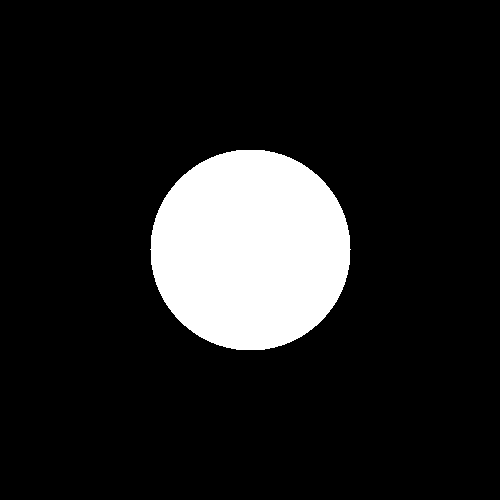
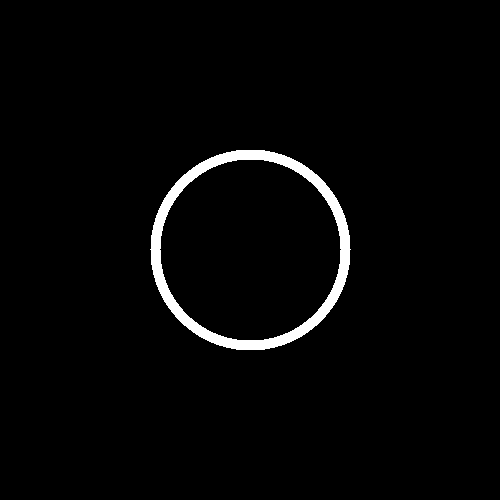
dernière simplification de disque()

Changed region(s): [[0.3, 0.3, 0.69, 0.69]]

diff --git a/src/main.cpp b/src/main.cpp
@@ -210,37 +210,17 @@ void disque(sil::Image &image, glm::vec3 couleur, int taille)
     float x = cos(0) * 0;
 
 
-    // on se déplace sur le cercle trigo
-    // ici de tout à droite à tout en haut
-    // arc haut droit
+    // on se déplace sur la moitié du cercle trigo
+    // on va tracer un demi cercle en haut, tout en dessinant un demi cercle en bas
     for (float i = 0; i <= 4; i += 0.0001)
     {
-        // ARC HAUT DROIT
         // à chaque point sur l'arc de cercle
         y = (sqrt(i) / 2) * taille;
         x = (sqrt(4 - i) / 2) * taille;
         // on part de ce point, on va jusq'au centre vertical de l'image (x_centre)
-        for (int i = x; i >= 0; i -= 1)
+        for (int i = x; i >= -x; i -= 1)
         {
             image.pixel(x_centre + i, y_centre + y) = couleur;
-        }
-
-        // ARC HAUT GAUCHE
-        // même idée mais cette fois ci on se trouve à gauche et on va au centre
-        for (int i = -x; i <= 0; i += 1)
-        {
-            image.pixel(x_centre + i, y_centre + y) = couleur;
-        }
-
-        // ARC BAS DROIT
-        for (int i = x; i >= 0; i -= 1)
-        {
-            image.pixel(x_centre + i, y_centre - y) = couleur;
-        }
-
-        // ARC BAS GAUCHE
-        for (int i = -x; i <= 0; i += 1)
-        {
             image.pixel(x_centre + i, y_centre - y) = couleur;
         }
     }
@@ -304,7 +284,7 @@ void exo12(sil::Image &image)
 {
     // CERCLE
     glm::vec3 blanc = {1, 1, 1};
-    glm::vec3 noir = {1, 1, 1};
+    glm::vec3 noir = {0, 0, 0};
     disque(image, blanc, 100);
     disque(image, noir, 90);
 }
@@ -319,7 +299,7 @@ int main()
     sil::Image image{500/*width*/, 500/*height*/};
     // TODO: modifier l'image
 
-    exo11(image);
+    exo12(image);
 
 
     image.save("output/pouet.png");
